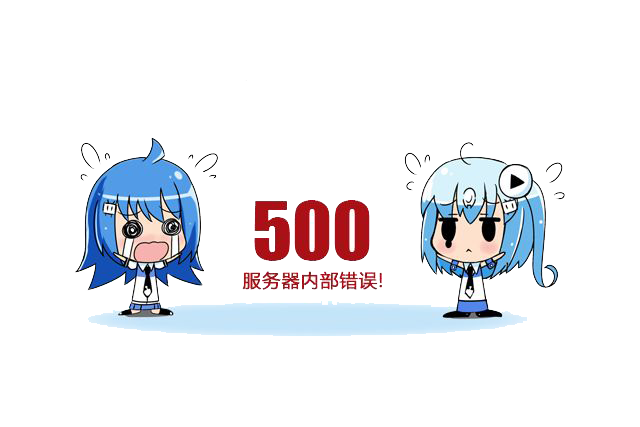
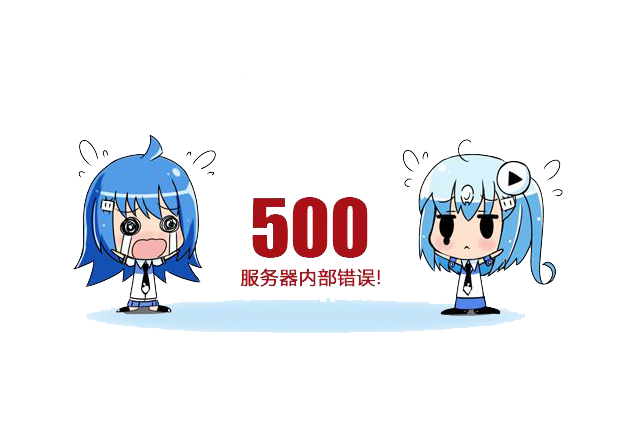
:sparkles: 完善图像测试文案表述
减少500图片的大小

diff --git a/src/pages/Test/TestGuide.jsx b/src/pages/Test/TestGuide.jsx
@@ -6,7 +6,7 @@ const Step = Steps.Step
 
 const step1 = <div>阅读本页测试须知，确认了解后，点击<span style={{color: "red"}}>【开始测试】</span>进行图像测试</div>
 const step2 = <div >图像测试。对图像进行一系列图像操作按钮查看图像显示效果，点击右下方的【<Icon type="swap" style={{color: "#eb2f96"}} />】可切换图像。
-  若图像显示没有问题，<span style={{color: "#52c41a"}}>【直接退出】</span>即可；如有问题，请点击<span style={{color: "red"}}>【填写反馈问题】</span></div>
+  若图像显示没有问题，<span style={{color: "#52c41a"}}>【直接退出即可】</span>；如有问题，请点击<span style={{color: "red"}}>【填写反馈问题】</span></div>
 const step3 = <div>填写反馈表单。请在问题描述中详细填写图像显示过程中产生的问题，然后点击<span style={{color: "red"}}>【提交反馈】</span>完成图像测试</div>
 
 const TestHomepage = (props) => (
@@ -18,7 +18,7 @@ const TestHomepage = (props) => (
         <Step description={step2} />
         <Step description={step3} />
       </Steps>
-      <Alert message="感谢您抽出时间帮忙测试，安培云的变好有您的一份功劳" type="info" />
+      <Alert message="感谢您百忙之中抽出时间协助测试，安培云的变好有您的一份功劳" type="info" />
       <Button type="primary" onClick={() => props.history.push('/test/image')} style={{marginTop: "15px"}}>开始测试</Button>
     </div>
   </div>

diff --git a/src/pages/Test/TestFeedback.jsx b/src/pages/Test/TestFeedback.jsx
@@ -4,6 +4,7 @@ import axios from 'axios'
 
 
 const http = axios.create({
+  // baseURL: 'http://localhost:5282',
   baseURL: 'http://132.232.18.77:5282',
   timeout: 3000,
 })
@@ -29,7 +30,8 @@ class Feedback extends Component {
       if (!err) {
         console.log('Received values of form: ', values)
         const userAgent = window.navigator.userAgent
-        let postData = {...values, userAgent}
+        const createTime = new Date()
+        let postData = {...values, userAgent, createTime}
         http.post('/api/test/image', postData)
           .then(res => res.data)
           .then(res => {
@@ -44,12 +46,6 @@ class Feedback extends Component {
             console.log(err)
           })
       }
-    })
-  }
-  onChangeIsOk = value => {
-    console.log(value)
-    this.setState({
-      hasProblem: value
     })
   }
 
@@ -103,7 +99,7 @@ class Feedback extends Component {
               {getFieldDecorator('question', {
                   rules: [{ required: true, message: '请输入您的反馈信息' }],
                 })(
-                  <TextArea type="text" placeholder='若图像显示没有问题，请您直接回复无或完美' autosize={{ minRows: 3, maxRows: 6 }} />
+                  <TextArea type="text" placeholder='请您详细描述测试中图像产生的问题以及提出建议，以便我们做出更好的优化和改进' autosize={{ minRows: 3, maxRows: 6 }} />
                 )}
             </Form.Item>
             <Form.Item style={{textAlign: "center"}}>

diff --git a/public/index.html b/public/index.html
@@ -27,7 +27,6 @@
     <script src="/lib/touch-0.2.14.min.js"></script>
     <script src="https://cdn.bootcss.com/jquery/3.3.1/jquery.min.js"></script>
     <script src="/3D/js/wgl/three.min.js"></script>
-    <script src="/3D/js/sqllite.js"></script>
     <script src="/3D/js/training/nsts.training.viewers.js"></script>
     <script src="/3D/js/wgl/Detector.js"></script>
     <script src="/3D/js/wgl/TrackballControls.js"></script>

diff --git a/src/pages/Test/TestImage.jsx b/src/pages/Test/TestImage.jsx
@@ -57,7 +57,14 @@ class ImageMobileTest extends Component {
   }
 
   showDR () {
-    this.drInstance.showDR(this.state.imageData[this.state.index])
+    if (this.drInstance.hasLoaded) {
+      this.drInstance.showDR(this.state.imageData[this.state.index])
+      this.setState({
+        shaderB: 'standard',
+        shaderC: 'default',
+        absorbValue: 0
+      })
+    }
   }
 
   swapImage = () => {

diff --git a/src/pages/Test/TestThanks.jsx b/src/pages/Test/TestThanks.jsx
@@ -5,7 +5,7 @@ import guidebg from '../../assets/login_bg.svg'
 const TestThanks = () => (
   <div className="m-test-thanks" style={{backgroundImage: `url(${guidebg})`}}>
     <div className="thanks">
-      <p>再次感谢您的配合</p>
+      <p>再次感谢您的参与配合</p>
       <p>祝您工作愉快~</p>
     </div>
   </div>
